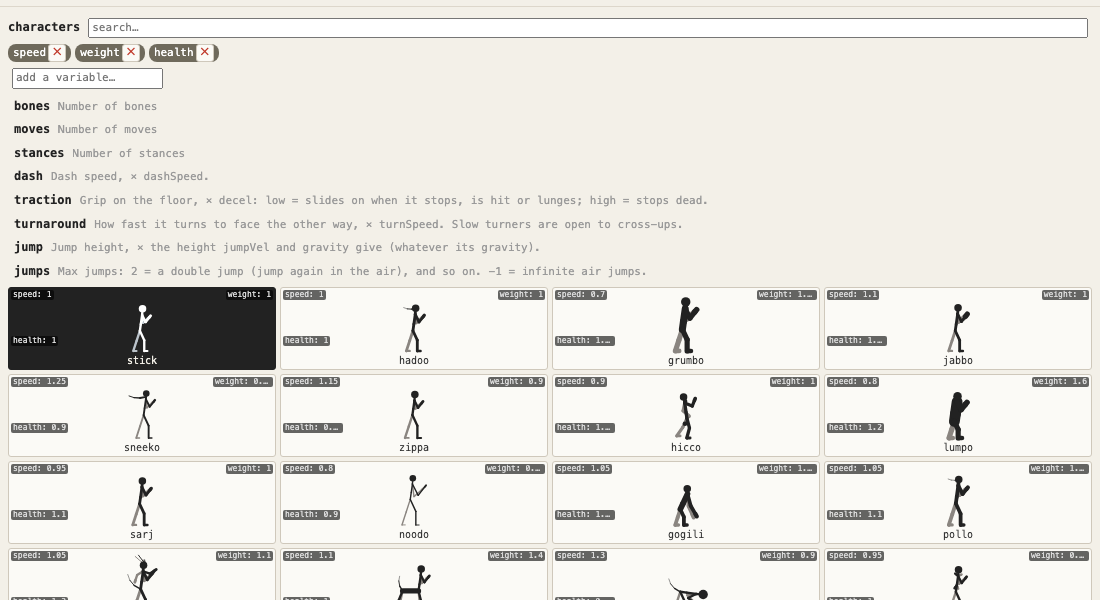
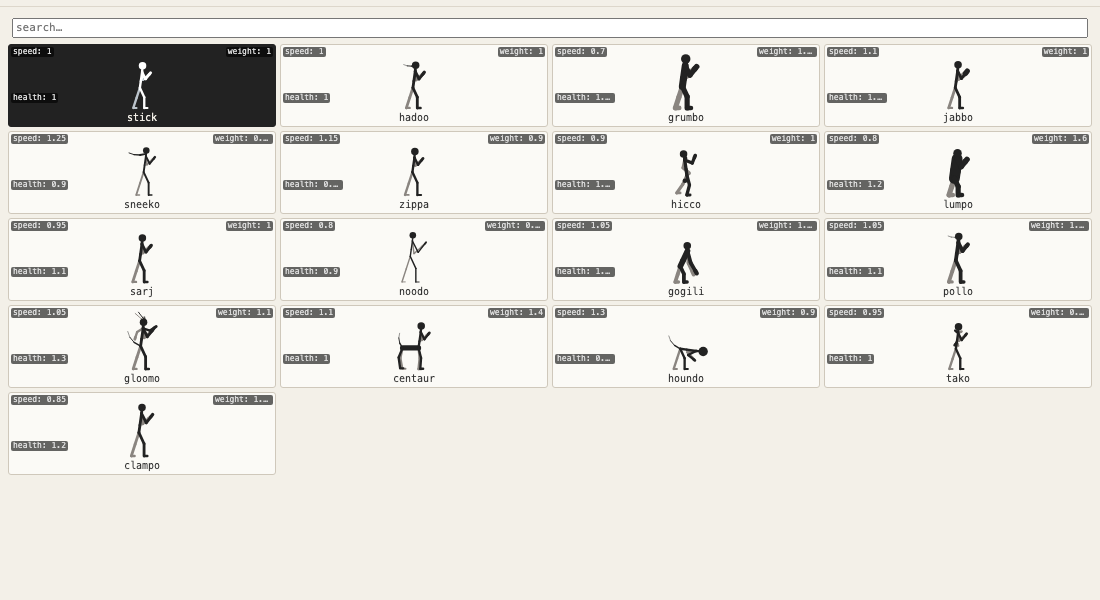
Grid: variable picker and description move to the side panel
- the side panel was empty; it now holds the collection's heading
  (with its description behind the info button, as everywhere else)
  and the variable picker, where the collection has one
- the overlay above the cards is just search + cards now
- docs: fixed two already-stale bits while in there — variables
  overlay a card's corners (not "under the name"), and scenarios
  have had their own variable picker since phase 4

diff --git a/tests/browser.js b/tests/browser.js
@@ -191,14 +191,15 @@ try {
     if (cardsOf().length !== Object.keys(DEFS).length) errs.push('grid characters count ' + cardsOf().length + ' vs ' + Object.keys(DEFS).length);
     if (!cardsOf()[0].querySelector('.gfield')) errs.push('grid character card has no fields shown');
     // field picker: typing finds a fuzzy, ranked suggestion; clicking it adds a chip and a .gfield line on every card
-    const fpInput = () => document.querySelector('#over input[placeholder="add a variable…"]');
+    if (!document.querySelector('#side h3')?.textContent.includes('characters')) errs.push('grid side heading missing');
+    const fpInput = () => document.querySelector('#side input[placeholder="add a variable…"]');
     fpInput().value = 'jump'; fpInput().dispatchEvent(new Event('input'));
-    const sugg = [...document.querySelectorAll('#over .pitem')].find(p => p.textContent.startsWith('jump'));
+    const sugg = [...document.querySelectorAll('#side .pitem')].find(p => p.textContent.startsWith('jump'));
     if (!sugg) errs.push('grid field picker no suggestion for jump');
     else { sugg.dispatchEvent(new MouseEvent('mousedown', { bubbles: true }));
       if (!gridState.fields.characters.includes('jump')) errs.push('grid field picker did not add jump');
       if (![...cardsOf()[0].querySelectorAll('.gfield')].some(s => s.textContent.startsWith('jump'))) errs.push('grid card missing jump field'); }
-    [...document.querySelectorAll('#over .chip')].find(c => c.textContent.startsWith('jump'))?.querySelector('button').click();
+    [...document.querySelectorAll('#side .chip')].find(c => c.textContent.startsWith('jump'))?.querySelector('button').click();
     if (gridState.fields.characters.includes('jump')) errs.push('grid field picker did not remove jump');
     // cols: the slider resizes the CSS grid's own column count
     const colsSlider = [...document.querySelectorAll('#ctx input[type=range]')].find(s => +s.max === 8);
@@ -228,13 +229,13 @@ try {
     setMode('grid'); panels();
     const pick = col => { [...document.querySelectorAll('#ctx .seg button')].find(b => b.textContent === col).click(); };
     pick('scenarios');
-    if (cardsOf().length !== Object.keys(SCENARIOS).length || !document.querySelector('#over input[placeholder="add a variable…"]')) errs.push('grid scenarios ' + cardsOf().length);
+    if (cardsOf().length !== Object.keys(SCENARIOS).length || !document.querySelector('#side input[placeholder="add a variable…"]')) errs.push('grid scenarios ' + cardsOf().length);
     const scen = Object.keys(SCENARIOS).find(k => k !== lab.scen);
     cardsOf().find(c => c.textContent.startsWith(scen)).click();
     if (lab.scen !== scen || app.mode !== 'play') errs.push('grid scenario card click ' + lab.scen + ' ' + app.mode);
     setMode('grid'); panels();
     pick('sounds');
-    if (cardsOf().length !== Object.keys(SOUNDS).length || document.querySelector('#over input[placeholder="add a variable…"]')) errs.push('grid sounds ' + cardsOf().length);
+    if (cardsOf().length !== Object.keys(SOUNDS).length || document.querySelector('#side input[placeholder="add a variable…"]')) errs.push('grid sounds ' + cardsOf().length);
     if (!cardsOf()[0].querySelector('canvas.wave') || !document.querySelector('[data-tip="Play a sound when you hover its card"]')) errs.push('grid sound card waveform / autoplay toggle missing');
     cardsOf().find(c => c.textContent.startsWith('hit')).click();
     if (soundSel !== 'hit' || app.mode !== 'sounds') errs.push('grid sound card click ' + soundSel + ' ' + app.mode);

diff --git a/src/gridlab.js b/src/gridlab.js
@@ -94,10 +94,15 @@ function gridPanel() {
   const fill = () => cardsWrap.replaceChildren(gridCards());
   const search = h('input', { cls: 'macro', value: gridState.filter, placeholder: 'search…', tip: 'Fuzzy filter by name or any shown variable\'s value',
     oninput: e => { gridState.filter = e.target.value; fill(); }, onkeydown: e => { e.stopPropagation(); if (e.key === 'Escape') { search.value = gridState.filter = ''; fill(); } } });
-  const hasFields = GRID_COLLECTIONS[gridState.collection].fields().length > 0;
-  wrap.append(h('div', { cls: 'bar' }, h('b', { textContent: gridState.collection }), search), hasFields ? gridFieldPicker() : null, cardsWrap);
+  wrap.append(h('div', { cls: 'bar' }, search), cardsWrap);
   fill();
   return wrap;
+}
+// the side panel: what this collection is (a description, behind the heading's info button, as everywhere else) and,
+// where it applies, the variable picker — the overlay above the cards used to hold both, leaving the side panel empty
+function gridSide() {
+  const col = GRID_COLLECTIONS[gridState.collection];
+  return [heading(gridState.collection, col.tip), col.fields().length ? gridFieldPicker() : h('p', { cls: 'note', textContent: 'This collection has no pickable variables — just name and a badge.' })];
 }
 function gridCtx() {
   return [grp('grid', 'Browse and search characters, moves, scenarios, sounds, looks and tracks; pick which variables show on each tile',
@@ -106,7 +111,8 @@ function gridCtx() {
     gridState.collection === 'sounds' ? toggle(':volume_up:', 'Play a sound when you hover its card', () => gridState.soundAutoplay, v => { gridState.soundAutoplay = v; saveGridStore(); }) : null)];
 }
 const gridMode = {
-  enter() {}, restart() {}, worlds: () => [], render: clear, ctxBar: gridCtx, side: () => [],
+  enter() {}, restart() {}, worlds: () => [], render: clear, ctxBar: gridCtx, side: gridSide,
+  get open() { return [gridState.collection]; },
   overlay: () => [gridPanel()],
   hint: () => 'click a tile to open it where it\'s edited · type to search · pick variables to show below each name',
 };

diff --git a/docs/modes.md b/docs/modes.md
@@ -141,8 +141,9 @@ Both replay buttons are in the menu bar, next to undo / redo.
 A content manager: browse and search characters, moves, scenarios, sounds, looks and tracks as tiles — a thin layer over the actual editors, not a second place to edit them. Click a tile to open it where it's really edited (the character tab, animate, the fx tab's sounds/tracker views, or play for a scenario).
 
 - **cards** (toolbar) picks the collection; **cols** sets tiles per row. Both are remembered.
-- **characters** and **moves** (the current character's) can show chosen variables under each name — type into **add a variable…** for a fuzzy, ranked search over every documented stat (characters) or move property and frame-data column (moves); click a suggestion to add it, × on its chip to remove it. Nothing new to maintain: these are the same tables the stats panel, the radar graph and the move table already read from.
-- **scenarios**, **sounds**, **looks** and **tracks** are simpler — name, a built-in/custom badge (looks also get a live preview), no variable picker.
+- The side panel holds what the collection is (the heading's info button) and, where it applies, the variable picker.
+- **characters**, **moves** (the current character's) and **scenarios** can show chosen variables, overlaid on a tile's corners — type into **add a variable…** for a fuzzy, ranked search over every documented stat (characters), move property and frame-data column (moves), or group / length / controller (scenarios); click a suggestion to add it, × on its chip to remove it. Nothing new to maintain: these are the same tables the stats panel, the radar graph and the move table already read from.
+- **sounds**, **looks** and **tracks** are simpler — name, a built-in/custom badge (looks also get a live preview, sounds their waveform and a hover-to-play toggle), no variable picker.
 - The search box filters by name and by any variable currently shown.
 
 ## Impact
